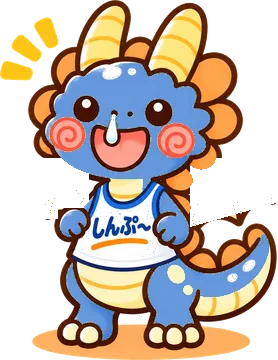
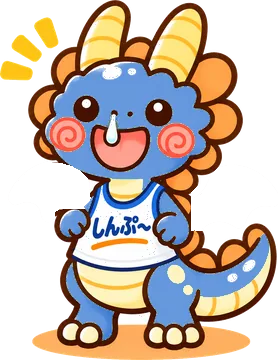
こどもドラゴンの羽がとれて見えないよう、羽の切り分けとつけ根を修正 (11/16-2)
Claude-Session: https://claude.ai/code/session_01YBiCLs4pTNeStadh86Q8Uo

diff --git a/index.html b/index.html
@@ -242,10 +242,10 @@ details.staff-d .staff-row { background: transparent; }
 .roam.me .tag { background: var(--accent); color: #fff; }
 @keyframes roambob { 0%,100% { transform: translate(-50%, -85%); } 50% { transform: translate(-50%, -92%); } }
 .kid-wing { transform-box: view-box; animation: kidFlap 1.3s ease-in-out infinite; }
-.kid-wl { transform-origin: 70px 103px; }
-.kid-wr { transform-origin: 130px 106px; animation-name: kidFlapR; }
-@keyframes kidFlap { 0%, 50%, 100% { transform: rotate(0deg); } 20% { transform: rotate(34deg); } 35% { transform: rotate(-12deg); } }
-@keyframes kidFlapR { 0%, 50%, 100% { transform: rotate(0deg); } 20% { transform: rotate(-34deg); } 35% { transform: rotate(12deg); } }
+.kid-wl { transform-origin: 69.5px 105.6px; }
+.kid-wr { transform-origin: 129.5px 111px; animation-name: kidFlapR; }
+@keyframes kidFlap { 0%, 50%, 100% { transform: rotate(0deg); } 20% { transform: rotate(18deg); } 35% { transform: rotate(-7deg); } }
+@keyframes kidFlapR { 0%, 50%, 100% { transform: rotate(0deg); } 20% { transform: rotate(-18deg); } 35% { transform: rotate(7deg); } }
 @media (prefers-reduced-motion: reduce) { .kid-wing { animation: none; } }
 /* the child dragon on the field: hop, squash on landing, then a silly wiggle */
 .roam.st2 .roam-d .dragon-body { transform-box: view-box; transform-origin: 100px 196px; animation: kidHop 2.6s cubic-bezier(.3,.7,.4,1) infinite; animation-delay: var(--delay, 0s); }
@@ -1167,7 +1167,7 @@ body.has-live .toast { bottom: calc(132px + env(safe-area-inset-bottom, 0px)); }
       ${genreCard}
       <section class="card"><h2>わたしの設定</h2>
         ${authUser ? `<p class="sub">ログイン中のアカウント：<b style="overflow-wrap:anywhere">${esc(authUser.email || "")}</b></p>` : ""}
-        <p class="sub">バージョン：11/16-1</p>
+        <p class="sub">バージョン：11/16-2</p>
         <label class="check-line"><input type="checkbox" id="set-bgm" ${bgmOn() ? "checked" : ""}> 原っぱでBGMを流す</label>
         <label class="check-line"><input type="checkbox" id="set-sfx" ${sfxOn() ? "checked" : ""}> 100点達成・進化の効果音を鳴らす</label>
         <label class="field">名前<input type="text" id="set-name" value="${esc(S.name)}"></label>
